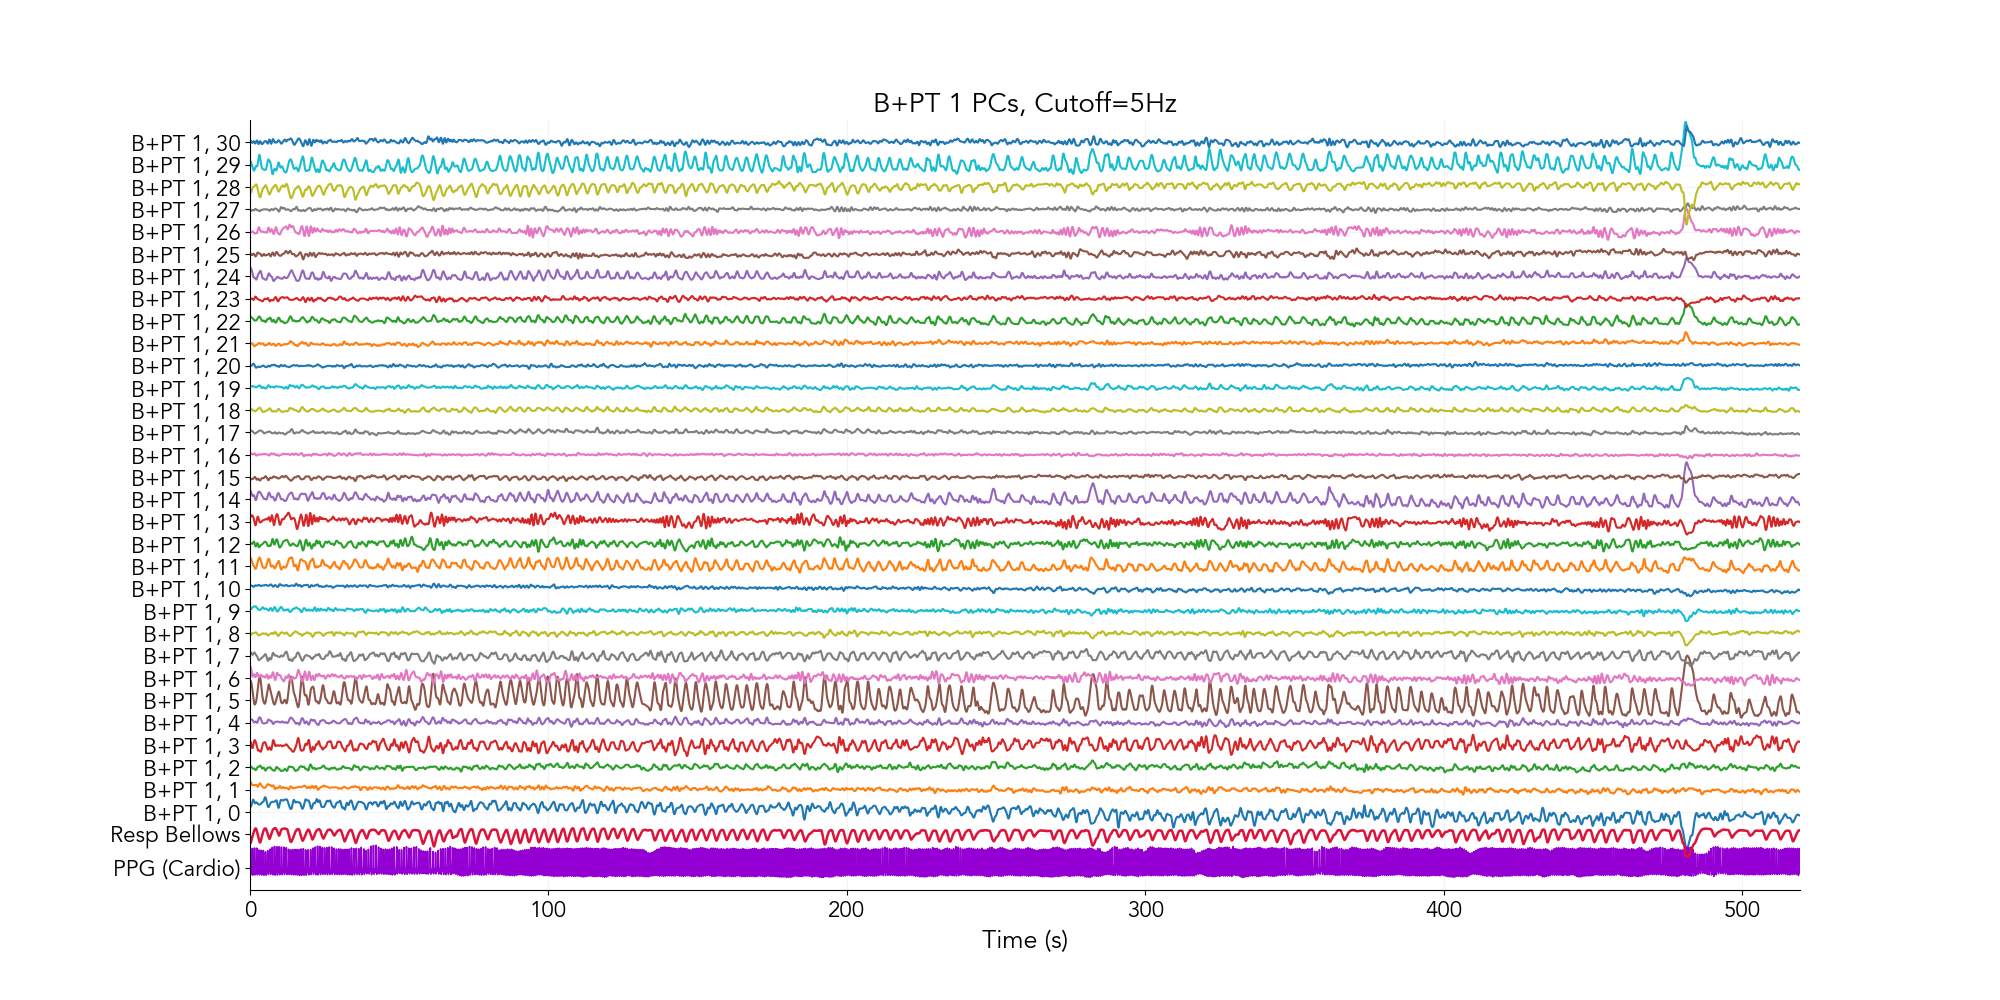
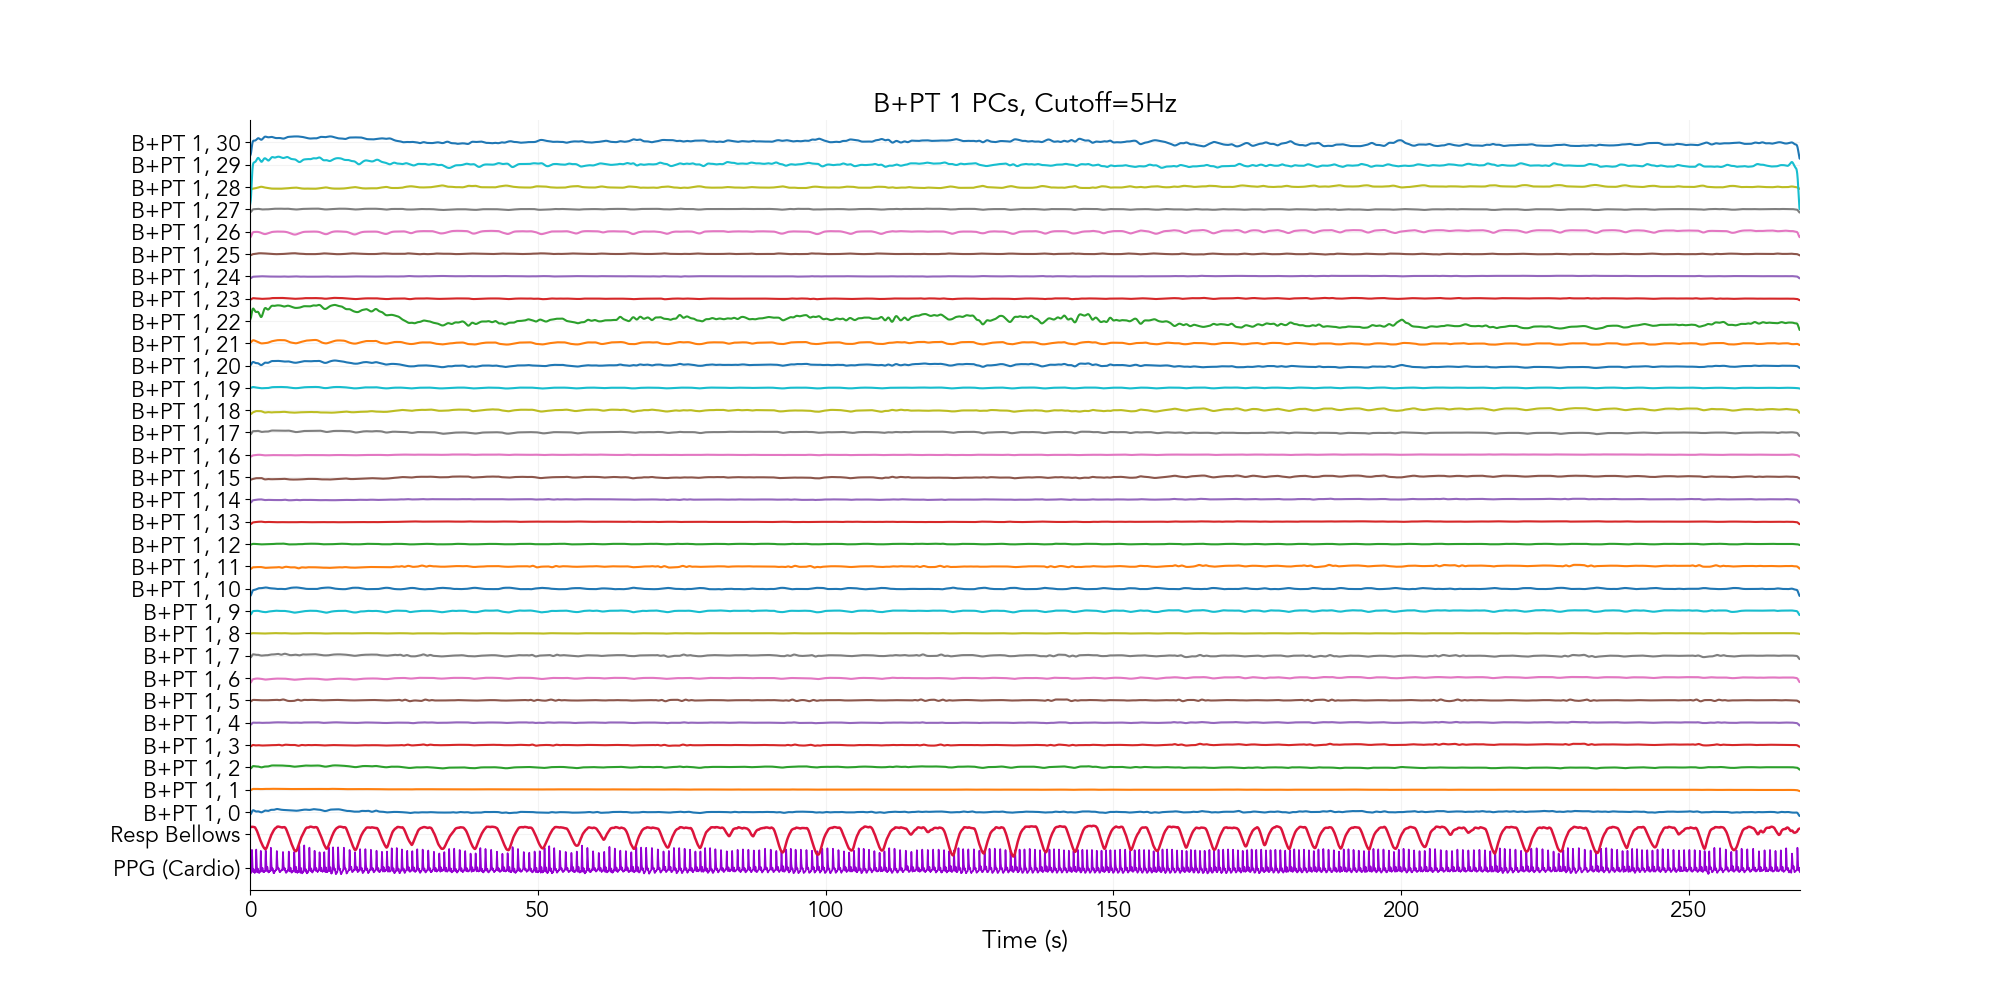
fixed k-space PCA and other inconsistencies (I think)

Changed region(s): [[0.124, 0.124, 0.899, 0.93]]

diff --git a/bpt_motus/viz/bpt.py b/bpt_motus/viz/bpt.py
@@ -100,7 +100,7 @@ class BPTVisualizer:
             # 3. Plot BPTs
             if self.plot_bpt:
                 label_prefix = "PC" if self.bpts_type == 'bpts_proc' else "Coil"
-                title = f"B+PT {i+1} {label_prefix}s, Cutoff=5Hz" if n_sets > 1 else f"B+PT 1 {label_prefix}s, Cutoff=5Hz"
+                title = f"B+PT {i+1} {label_prefix}s" if n_sets > 1 else f"B+PT 1 {label_prefix}s"
                 ax.set_title(title)
                 
                 ticks, labels, current_offset = self._plot_stacked_signals(